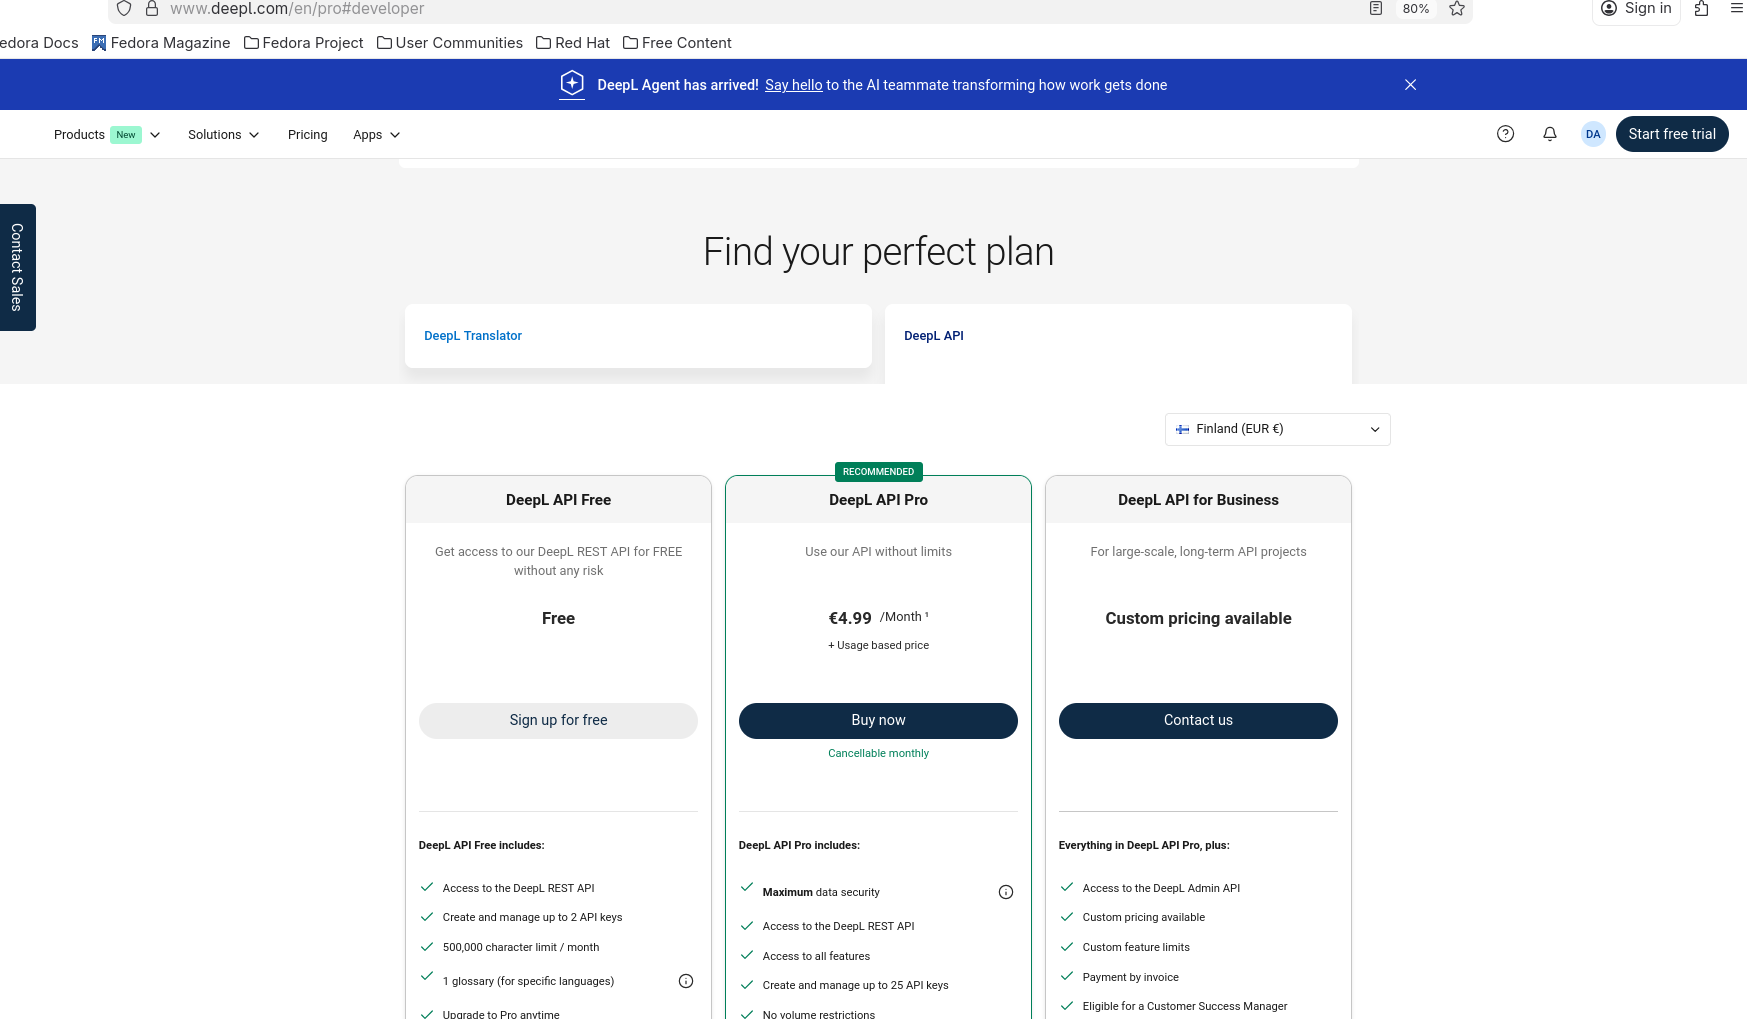
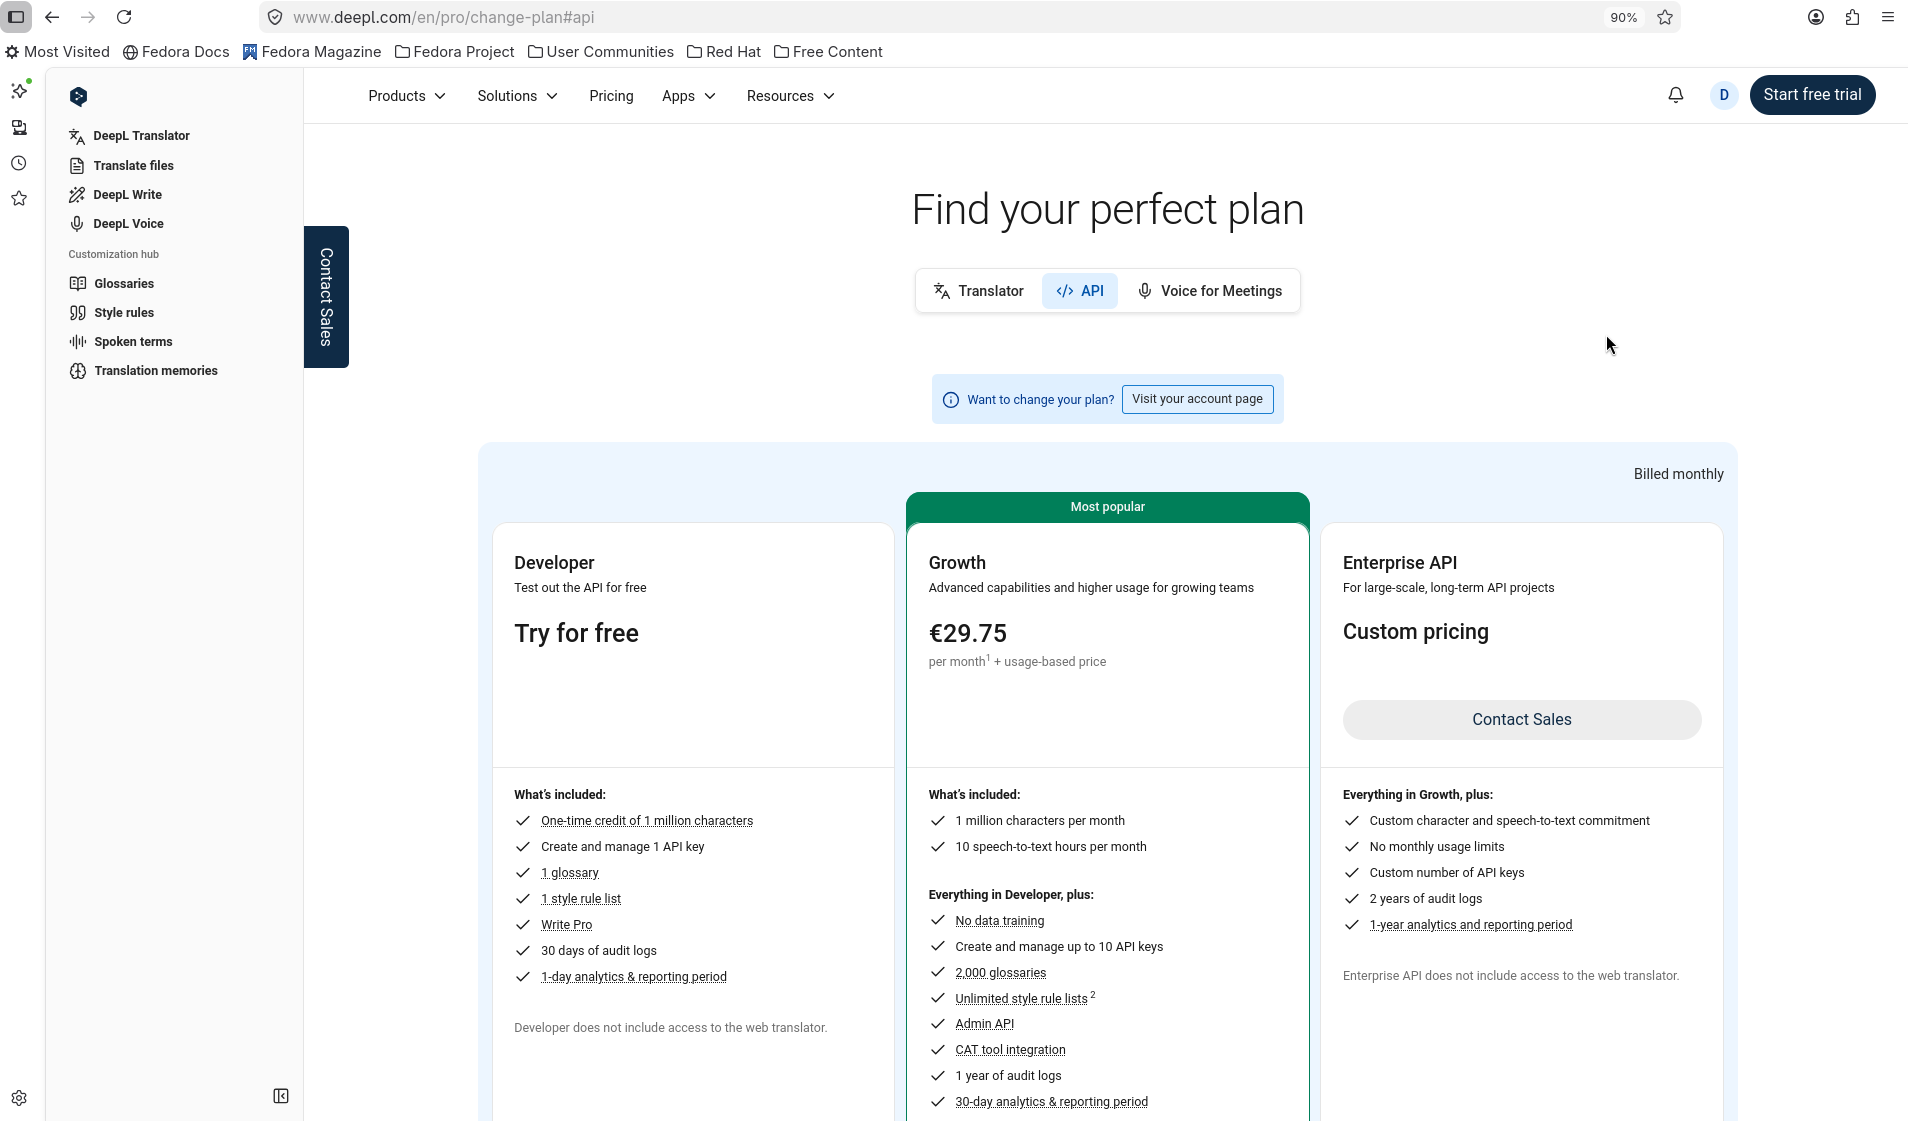
issue-33: update guidance based on change in DeepL pricing model

diff --git a/extension-options-page/src/App.jsx b/extension-options-page/src/App.jsx
@@ -672,7 +672,7 @@ function AddNewTokenForm(props) {
             <div className="add-token-form__radio-content">
               <div className="add-token-form__radio-title">DeepL Free</div>
               <div className="add-token-form__radio-description">
-                500,000 characters/month, perfect for casual use.
+                1 million characters/month, perfect for casual use.
               </div>
             </div>
           </label>
@@ -837,7 +837,7 @@ function TokenManagementHelpSection() {
             ♻️ <strong>Sustainability</strong> – No active maintenance burden on
             my end
             <br />
-            🆓 <strong>Truly free</strong> – DeepL's free tier gives you 500,000
+            🆓 <strong>Truly free</strong> – DeepL's free tier gives you 1 million
             characters/month!
             <br />
             <br />
@@ -896,8 +896,7 @@ function TokenManagementHelpSection() {
                 DeepL Developer Page
               </a>
               , look for <strong>"Find your perfect plan"</strong>, then click
-              the <strong>"DeepL API"</strong> tab. Select either Free or Pro
-              plan depending on your needs.
+              the <strong>"DeepL API"</strong> tab. Select plan depending on your needs.
               <br />
               <br />
               <img
@@ -969,7 +968,7 @@ function TokenManagementHelpSection() {
               <strong>Paste it below</strong>
               <br />
               Copy the entire key and paste it in the form below, select your
-              account type (Free/Pro), and click "Add new translation key"
+              account type (Free/Paid), and click "Add new translation key"
             </li>
           </ol>
 
@@ -991,18 +990,21 @@ function TokenManagementHelpSection() {
           </p>
 
           <p className="token-management-setting-card__help-section-footer">
-            💡 <strong>Pro tip:</strong> If you need more than 500,000
-            characters/month, consider upgrading to{" "}
+            💡 <strong>Note:</strong> The free DeepL Developer plan includes a
+            one-time credit of 1 million characters. Once used up, consider
+            upgrading to{" "}
             <a
               href="https://www.deepl.com/en/pro/change-plan#api"
               target="_blank"
               rel="noopener noreferrer"
               className="token-management-setting-card__help-section-link"
             >
-              DeepL Pro
-            </a>
-            ! It's a great way to support DeepL's awesome translation
-            technology.
+              DeepL Growth
+            </a>{" "}
+            (1M characters/month) to keep translations running. If that feels
+            expensive, share one key with friends or fellow Finnish learners and
+            split the cost! Pricing may change — always check DeepL&apos;s
+            latest plans for up-to-date details.
           </p>
         </div>
       )}

diff --git a/landing-page/docs/guidance.md b/landing-page/docs/guidance.md
@@ -57,7 +57,7 @@ Here's the truth: Free services either use low-quality translation APIs, run at 
 - ✨ **Best-in-class translations** – DeepL provides high-quality translations to 30+ languages including English, Vietnamese, Japanese, and more
 - 🔒 **Complete privacy** – No data collection, no ads, no tracking
 - ♻️ **Sustainability** – No active maintenance burden on my end
-- 🆓 **Truly free** – DeepL's free tier gives you 500,000 characters/month!
+- 🆓 **Truly free** – DeepL's free tier gives you 1 million characters/month!
 
 Yes, it takes 5-10 minutes for one-time setup, but you get premium quality without compromise. Worth it? I think so! 😊
 
@@ -98,12 +98,14 @@ Yes, it takes 5-10 minutes for one-time setup, but you get premium quality witho
 
 6. **Paste it in the extension**
 
-   Copy the entire key and paste it in the extension's options page, select your account type (Free/Pro), and click "Add new translation key"
+   Copy the entire key and paste it in the extension's options page, select your account type (Free/Paid), and click "Add new translation key"
 
 🎉 That's it! Your extension is now ready to provide high-quality translations.
 
 📚 Need more help? View the [official DeepL guide](https://support.deepl.com/hc/en-us/articles/360020695820-API-key-for-DeepL-API)
 
-### 💡 Pro Tip: Supporting DeepL
+### 💡 Note: DeepL Character Limits
 
-If you need more than 500,000 characters/month, consider upgrading to [DeepL Pro](https://www.deepl.com/en/pro/change-plan#api)! It's a great way to support DeepL's awesome translation technology. You can add up to 2 translation keys to this extension.
+The free DeepL Developer plan includes a one-time credit of 1 million characters. Once used up, consider upgrading to [DeepL Growth](https://www.deepl.com/en/pro/change-plan#api) (1M characters/month) to keep translations running. If that feels expensive, share one key with friends or fellow Finnish learners and split the cost! You can add up to 2 translation keys to this extension.
+
+> ⚠️ DeepL pricing may change at any time — please check [DeepL's latest plans](https://www.deepl.com/en/pro/change-plan#api) for up-to-date details.

diff --git a/landing-page/docs/introduction.md b/landing-page/docs/introduction.md
@@ -51,16 +51,18 @@ This extension takes a different approach because you deserve:
 
 - **Best-in-class translations** — DeepL provides high-quality translations for Finnish to 30+ languages
 - **Complete privacy** — No data collection, no ads, no tracking
-- **Truly free** — DeepL's free tier gives you 500,000 characters/month
+- **Truly free** — DeepL's free tier gives you 1 million characters/month
 - **Sustainable** — No hidden costs or monetization of your data
 
 Yes, it takes 5-10 minutes for one-time setup, but you get premium quality without compromise.
 
 ## Completely Free to Use
 
-YLE Areena is free worldwide. DeepL's free API offers 500,000 characters/month. With smart caching, you can learn Finnish without spending a cent.
+YLE Areena is free worldwide. DeepL's free Developer plan includes a one-time credit of 1 million characters. With smart caching, you can learn Finnish without spending a cent.
 
-If you need more capacity, consider upgrading to [DeepL Pro](https://www.deepl.com/en/pro/change-plan#api) — it's a great way to support DeepL's awesome translation technology.
+If you need more capacity, consider upgrading to [DeepL Growth](https://www.deepl.com/en/pro/change-plan#api) (1M characters/month). If that feels expensive, share one key with friends or fellow Finnish learners and split the cost!
+
+> ⚠️ DeepL pricing may change at any time — please check [DeepL's latest plans](https://www.deepl.com/en/pro/change-plan#api) for up-to-date details.
 
 ## Getting Started
 